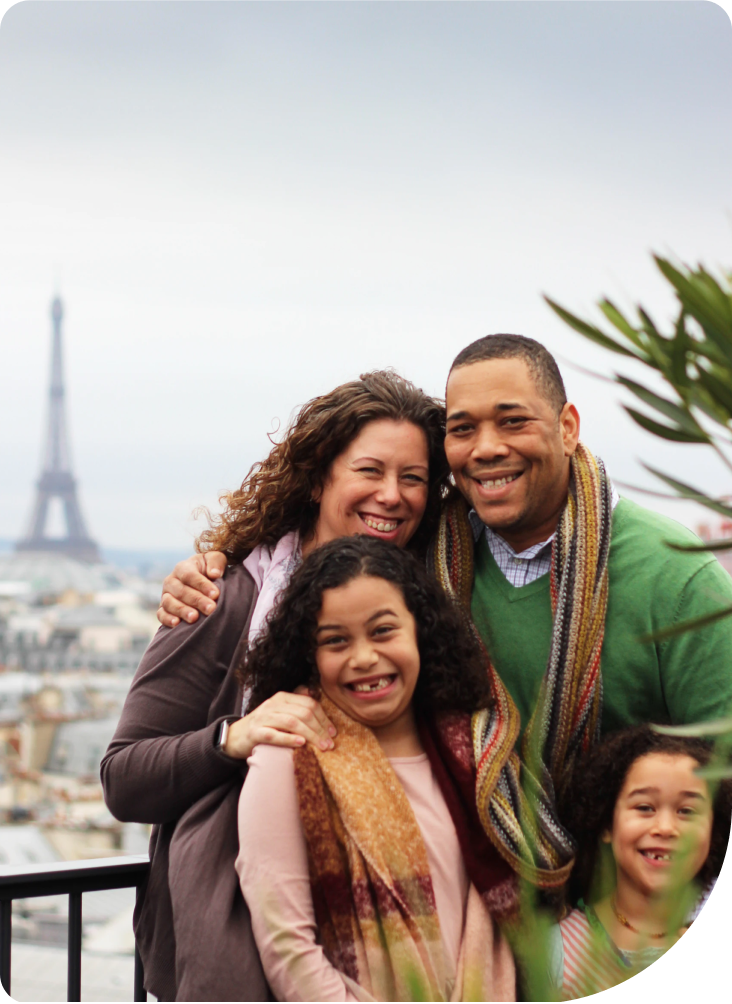
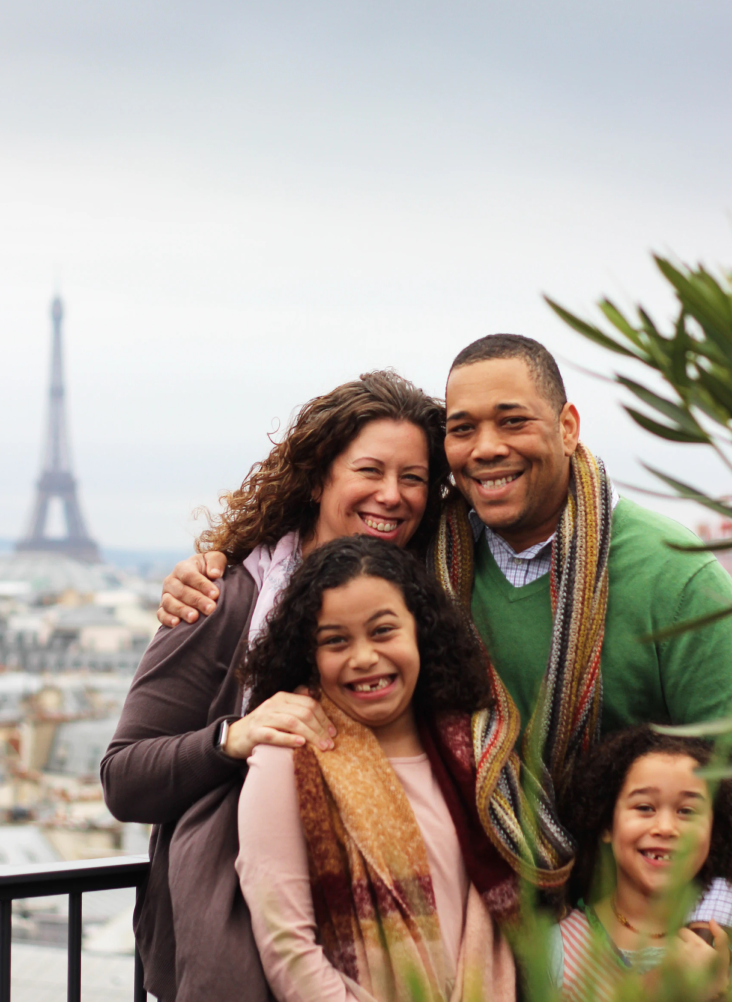
input number

diff --git a/src/elements/Form/inputNumber/index.js b/src/elements/Form/inputNumber/index.js
@@ -1,0 +1,81 @@
+import React, { useState } from 'react';
+import propTypes from 'prop-types';
+import './index.scss';
+
+export default function Number(props) {
+  const { value, placeholder, name, min, max, prefix, suffix, isSuffixPlural } = props;
+
+  const [InputValue, setInputValue] = useState(`${prefix}${value}${suffix}`);
+
+
+  const onChange = (e) => {
+    let value = String(e.target.value);
+    if (prefix) value = value.replace(prefix);
+    if (suffix) value = value.replace(suffix);
+
+    const petternNumeric = new RegExp('[0-9]*');
+    const isNumeric = petternNumeric.test(value);
+
+    if (isNumeric && +value <= max && +value >= min) {
+      props.onChange({
+        target: {
+          name: name,
+          value: +value,
+        },
+      });
+      setInputValue(`${prefix}${value}${suffix}${isSuffixPlural && value > 1? 's': ''}`);
+    }
+  };
+
+  const minus = () => {
+    value > min &&
+      onChange({
+        target: {
+          name: name,
+          value: +value - 1,
+        },
+      });
+  };
+
+  const plus = () => {
+    value < max &&
+      onChange({
+        target: {
+          name: name,
+          value: +value + 1,
+        },
+      });
+  };
+  return (
+    <div className={['input-number mb-3', props.outerClassName].join(' ')}>
+      <div className='input-group'>
+        <div className='input-group-prepend'>
+          <div className='input-group-text minus' onClick={minus}>
+            -
+          </div>
+        </div>
+        <input min={min} max={max} name={name} pattern='[0-9]*' className='form-control' placeholder={placeholder ? placeholder : '0'} value={String(InputValue)} onChange={onChange} />
+        <div className='input-group-prepend'>
+          <div className='input-group-text plus' onClick={plus}>
+            +
+          </div>
+        </div>
+      </div>
+    </div>
+  );
+}
+
+Number.defaultProps = {
+  min: 1,
+  max: 1,
+  prefix: '',
+  suffix: '',
+};
+
+Number.propTypes = {
+  value: propTypes.oneOfType([propTypes.string, propTypes.number]),
+  onChange: propTypes.func,
+  isSuffixPlural: propTypes.bool,
+  placeholder: propTypes.string,
+  outerClassName: propTypes.string,
+};

diff --git a/src/elements/Form/inputNumber/index.scss b/src/elements/Form/inputNumber/index.scss
@@ -1,0 +1,48 @@
+@import '../../../assets/scss/_colorVariables.scss';
+
+.input-number {
+  .input-group {
+    background-color: white;
+    .input-group-text {
+      border: 0;
+      cursor: pointer;
+      color: white;
+      padding: 0;
+      border-radius: 4px !important;
+      font-size: 24px;
+      width: 45px;
+      height: 45px;
+      display: flex;
+      flex-direction: row;
+      justify-content: center;
+      user-select: none;
+      &.minus {
+        background-color: #dc3545;
+      }
+      &.plus {
+        background-color: #20c997;
+      }
+    }
+
+    .input-form-control {
+      min-height: 45px;
+      border: 0;
+      border-radius: 0;
+      outline: 0;
+      box-shadow: none;
+      background-color: #f8f9fa;
+      padding: 0.575rem 1rem;
+      text-align: center;
+    }
+
+    .date-range-wrapper {
+      padding: 4px;
+      background-color: #fff;
+      box-shadow: 0 0 20px rgba(#000, 0.1);
+      position: absolute;
+      border-radius: 4px;
+      top: 45px;
+      z-index: 5;
+    }
+  }
+}

diff --git a/src/elements/Form/inputNumber/index.test.js b/src/elements/Form/inputNumber/index.test.js
@@ -1,0 +1,41 @@
+import React from 'react';
+import { render, fireEvent } from '@testing-library/react';
+import InputNumber from './index.js';
+
+class TestInput extends React.Component {
+  state = {
+    value: '',
+  };
+
+  handleChange = (e) => {
+    this.setState({ [e.target.name]: e.target.value });
+  };
+
+  render() {
+    return <InputNumber max={30} onChange={this.handleChange} name='value' value={this.state.value} />;
+  }
+}
+
+const setup = () => {
+  const { container } = render(<TestInput />);
+  const { input } = container.querySelector(`input.form-control[name = 'value']`);
+
+  return {
+    input,
+  };
+};
+
+test('Should able to change value', () => {
+  const { input } = setup();
+
+  fireEvent.change(input, { target: { value: 23 } });
+  console.log(input.value);
+  expect(input.value).toBe('23');
+});
+
+test('Should not be able to change when reach max value', () => {
+  const { input } = setup();
+
+  fireEvent.change(input, { target: { value: 33 } });
+  expect(input.value).toBe('');
+});

diff --git a/src/pages/pages.js b/src/pages/pages.js
@@ -1,0 +1,23 @@
+import React,{Component} from 'react'
+import InputNumber from '../elements/Form/inputNumber';
+
+export default class pages extends Component {
+    state= {
+        value: '1',
+    }
+    handleChange = e => {
+        this.setState({ [e.target.name]: e.target.value });
+    }
+    render(){
+        return (
+          <div className='container'>
+              <div className="row align-items-center justify-content-center" style={{ height: "100vh"}}>
+                  <div className="col-auto">
+                      <InputNumber max={30} suffix=' night' isSuffixPlural onChange={this.handleChange} value={this.state.value} name='value' />
+                  </div>
+              </div>
+            
+          </div>
+        )
+    }
+}

diff --git a/src/parts/Categories.js b/src/parts/Categories.js
@@ -5,8 +5,8 @@ import Button from '../elements/Button';
 export default function Categories({ data }) {
   return data.map((category, index1) => {
     return (
-      <section className='container' key={`category-${index1}`}>
-        <Fade bottom>
+      <Fade bottom delay={300 * index1}>
+        <section className='container' key={`category-${index1}`}>
           <h4 className='mb-3 font-weight-medium'>{category.name}</h4>
           <div className='container-grid'>
             {category.items.length === 0 ? (
@@ -42,8 +42,8 @@ export default function Categories({ data }) {
               })
             )}
           </div>
-        </Fade>
-      </section>
+        </section>
+      </Fade>
     );
   });
 }

diff --git a/src/App.js b/src/App.js
@@ -1,13 +1,15 @@
 import React from 'react';
 import { BrowserRouter as Router, Route } from 'react-router-dom'
 import LandingPage from './pages/LandingPage';
+import pages from './pages/pages';
 import './assets/scss/style.scss';
 
 function App() {
   return (
       <div className="App">
         <Router>
-          <Route path='/' component={LandingPage}></Route>
+          {/* <Route path='/' component={LandingPage}></Route> */}
+          <Route path='/pages' component={pages}></Route>
         </Router>
       </div>
   )

diff --git a/src/assets/scss/style.scss b/src/assets/scss/style.scss
@@ -228,6 +228,7 @@ section {
   height: 500px;
   margin: 0;
   padding: 0;
+  border-radius: 15px 15px 100px 15px;
 }
 
 footer {

diff --git a/src/elements/Form/inputDate/index.js b/src/elements/Form/inputDate/index.js
@@ -1,0 +1,9 @@
+import React from 'react'
+
+export default function index() {
+  return (
+    <div>
+      
+    </div>
+  )
+}
